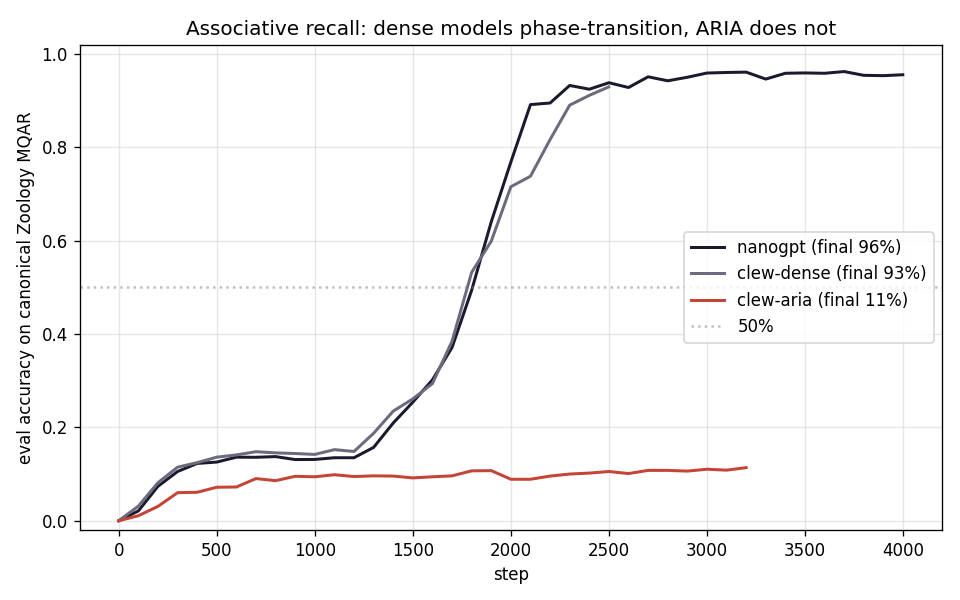
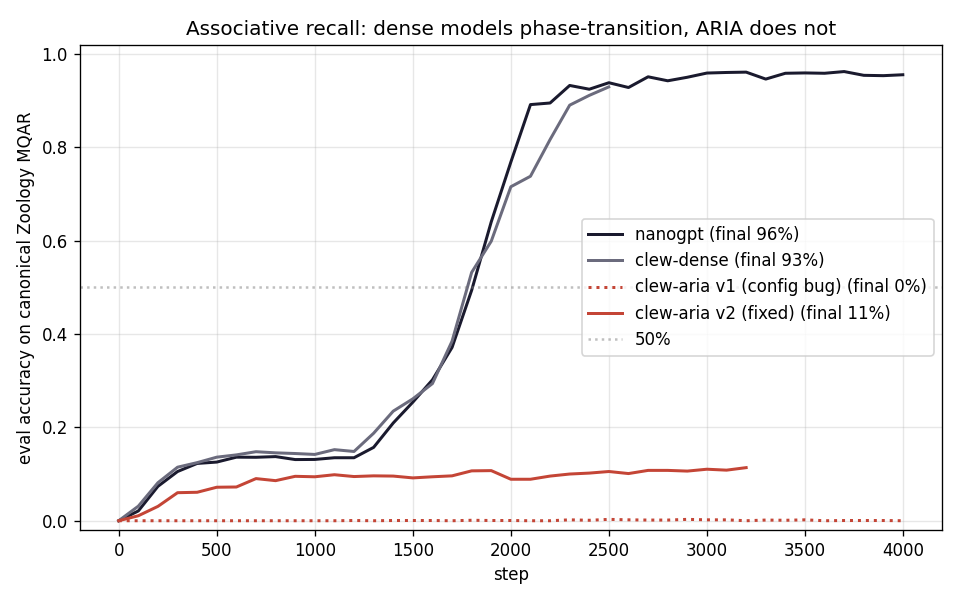
chore: add v1-broken series to MQAR plot
Plot now shows all four trajectories: nanogpt, clew-dense,
clew-aria v1 (config bug, flat at 0%), clew-aria v2 (fixed config,
plateau at ~11%). Visualizes the v1→v2 distinction described in the
README.

diff --git a/eval/plot_mqar.py b/eval/plot_mqar.py
@@ -11,7 +11,8 @@ def run():
     files = [
         ("nanogpt", "runs/zoology_mqar_nanogpt.json", "#1a1a2e", "-"),
         ("clew-dense", "runs/zoology_mqar_dense.json", "#6b6b7d", "-"),
-        ("clew-aria", "runs/zoology_mqar_aria.json", "#c44536", "-"),
+        ("clew-aria v1 (config bug)", "runs/zoology_mqar_aria_v1_broken.json", "#c44536", ":"),
+        ("clew-aria v2 (fixed)", "runs/zoology_mqar_aria.json", "#c44536", "-"),
     ]
     for name, path, color, ls in files:
         p = Path(path)
